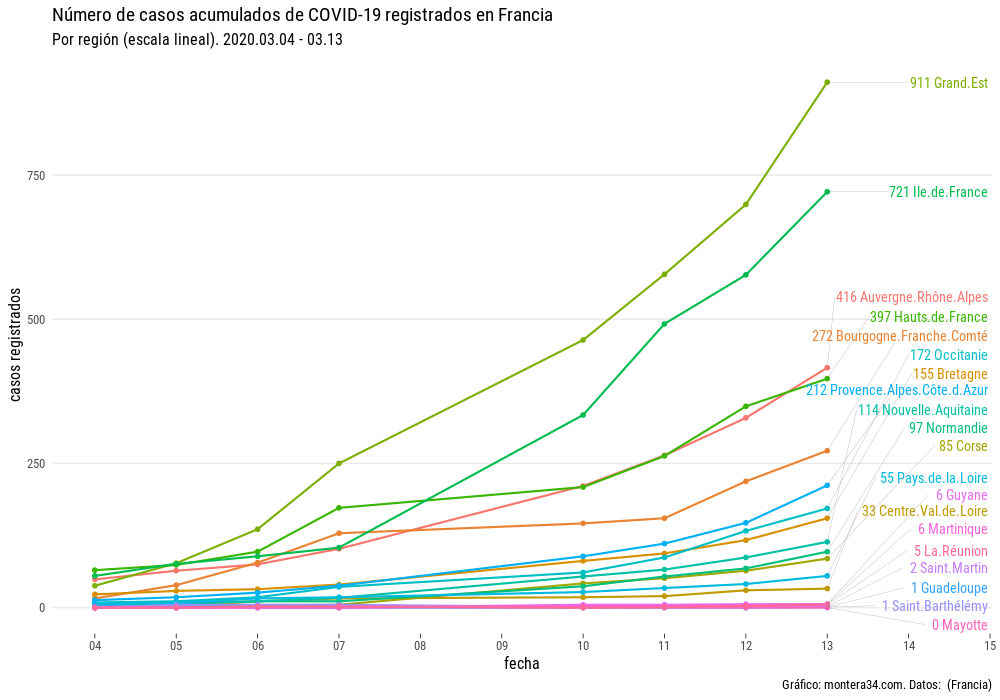
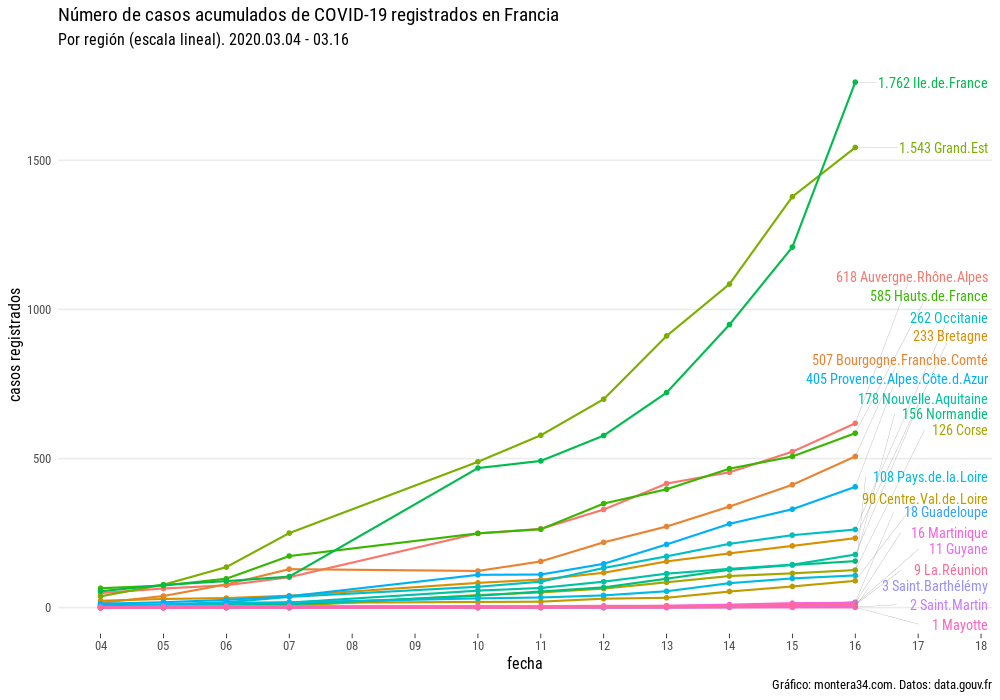
update France region data. Create coparision chart Italy, Spain, France

diff --git a/README.md b/README.md
@@ -20,7 +20,8 @@ When you go to any of the scripts you can run it and it will produce all the vis
 
 ```
 ├── coronavirus.Rproj                             # R project
-├── analysis
+├── analysis                              # scripts to process data
+│   ├── evolution_compare.R               # R script: process and create plots compare countries
 │   ├── evolution_france.R                # R script: process and create plots France  
 │   ├── evolution_italia.R                # R script: process and create plots Italia  
 │   ├── evolution_spain.R                 # R script: process and create plots Spain
@@ -28,7 +29,8 @@ When you go to any of the scripts you can run it and it will produce all the vis
 │   ├── original                                  # original data
 │   │   └── Spain
 │   │       ├── ccaa-poblacion.csv            # population per region
-│   │       └── covid10_spain_provincias.csv  # covid19 data by province. 
+│   │       ├── provincias-poblacion.csv      # population per province
+│   │       └── covid10_spain_provincias.csv  # covid19 data by province.  
 │   └── output                                    # processed data: by date and comunidad autónoma in Spain
 │       ├── covid19-cases-uci-deaths-by-ccaa-spain-by-day-accumulated.csv     # merge all cases
 │       ├── covid19-casos-registrados-por-ccaa-espana-por-dia-acumulado.csv   # registered cases accumulated
@@ -46,11 +48,9 @@ When you go to any of the scripts you can run it and it will produce all the vis
 
 ## Datos / Data 
 
-### De COVID-19 
+### España (Spain)
 
-#### España (Spain)
-
-##### Comunidades autónomas
+#### Comunidades autónomas
 
 Del respositorio de Datadista (https://github.com/datadista/datasets/tree/master/COVID%2019) que los extrae a su vez de las tablas de la situación diaria de la enfermedad por el coronavirus (COVID-19) en España que publica el Ministerio de Sanidad, Consumo y Bienestar Social (https://www.mscbs.gob.es/profesionales/saludPublica/ccayes/alertasActual/nCov-China/situacionActual.htm) en incómodos PDF. Cita a Datadista como fuente de los datos extraídos. 
 
@@ -77,7 +77,6 @@ Data structure:
 
 Example of observations:
 
-|            |                      |                    |            |              |                    |                  |                              |             |                        |         |                    | 
 |------------|----------------------|--------------------|------------|--------------|--------------------|------------------|------------------------------|-------------|------------------------|---------|--------------------| 
 | "code_ine" | "comunidad_autonoma" | "cases_registered" | "date"     | "population" | "cases_per_100000" | "intensive_care" | "intensive_care_per_1000000" | "deceassed" | "deceassed_per_100000" | "altas" | "altas_per_100000" | 
 | 1          | "Andalucía"          | 269                | 2020-03-14 | 8414240      | 3.2                | NA               | NA                           | 2           | 0.24                   | NA      | NA                 | 
@@ -87,7 +86,7 @@ Example of observations:
 
 When no data is available `NA` is indicated. Intensive care patients data have not been published since March 13th.
 
-##### Provincias
+#### Provincias
 
 Working spreadsheet: https://docs.google.com/spreadsheets/d/1qxbKnU39yn6yYcNkBqQ0mKnIXmKfPQ4lgpNglpJ9frE/edit#gid=0
 Ayúdanos a completarla. Pide acceso.
@@ -96,24 +95,29 @@ Data are published in this file: [/data/original/spain/covid19_spain_provincias.
 
 Format:
 
-|            |                  |           |                |          |                   |           |                                                                                                   |                                                                                                     | 
 |------------|------------------|-----------|----------------|----------|-------------------|-----------|---------------------------------------------------------------------------------------------------|-----------------------------------------------------------------------------------------------------| 
 | date       | province         | new_cases | intensive_care | deceased | cases_accumulated | recovered | source                                                                                            | comments                                                                                            | 
 | 2020-03-14 | Alicante/Alacant | 18        |                |          | 57                |           | http://www.san.gva.es/documents/151311/8476524/200314+NOTA+DE+PRENSA+CORONAVIRUS.pdf              |                                                                             | 
 | 2020-03-15 | Alicante/Alacant | 94        |                |          | 151               |           | http://www.san.gva.es/documents/151311/8477533/20200315+NOTA+CORONAVIRUS                          |                                         | 
 | 2020-03-13 | Almería          | 0         | 0              | 0        | 9                 | 0         | https://www.juntadeandalucia.es/organismos/saludyfamilias/actualidad/noticias/detalle/233232.html |                                                                                                     | 
+#### Población por comunidades autónomas y provincias (2019)
+
+Población por comunidades autónomas del INE: https://www.ine.es/jaxiT3/Datos.htm?t=2853#!tabs-tabla
+
+Población por provincias del INE:  https://www.ine.es/jaxiT3/Datos.htm?t=2852#!tabs-tabla
 
 
-
-#### Italia
+### Italia
 
 Italian data: https://github.com/pcm-dpc/COVID-19
 
+### France
 
-### Población por comunidades autónomas (2019)
+Working on it. Meanwhile: data/original/france/covid19-france.csv
 
-Población por comunidades autónomas del INE: https://www.ine.es/jaxiT3/Datos.htm?t=2853#!tabs-tabla
-Población por provincias del INE:  https://www.ine.es/jaxiT3/Datos.htm?t=2852#!tabs-tabla
+Sources:
+
+* https://www.data.gouv.fr/fr/datasets/cas-confirmes-dinfection-au-covid-19-par-region/
 
 ## Autoría
 
